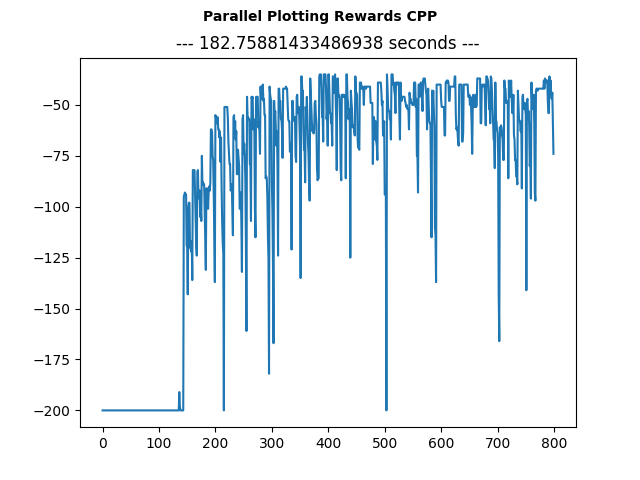
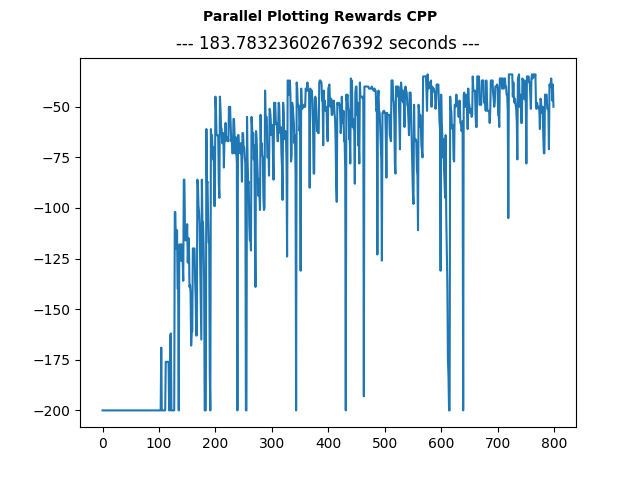
testing and adding in a delay

diff --git a/ME759/ParallelQlearndequeue.py b/ME759/ParallelQlearndequeue.py
@@ -69,6 +69,8 @@ def episode_func(episode_num, tau, plotting_rewards, replay_mem, policy_net, tar
         if terminated or truncated: # if the pole has fallen down 
             next_observation = None
 
+        item = [observation, action, next_observation, reward]
+
         #print(replay_mem)
         # Update the replay memory
         semaphore.acquire()
@@ -117,7 +119,7 @@ def main(plotting_rewards, replay_mem):
 
     global env
     ### Create environment
-    env = gym.make('AcrobotCdyn') # Initialize the Gym environment
+    env = gym.make('Acrobot') # Initialize the Gym environment
 
     # Get the shapes of the state space (observation_space) and action space (action_space)
     state_space_dim = env.observation_space.shape[0]
@@ -147,7 +149,7 @@ def main(plotting_rewards, replay_mem):
 
     # Initialize the Gym environment
 
-    env = gym.make('AcrobotCdyn') 
+    env = gym.make('Acrobot') 
     observation, info = env.reset()
     max_workers=8
     start_time = time.time()
@@ -171,7 +173,6 @@ def main(plotting_rewards, replay_mem):
         # all done
         print('Updating target network main')
         target_net.load_state_dict(policy_net.state_dict()) # This will copy the weights of the policy network to the target network
-        print('Updating Finished')
 
 if __name__ == "__main__":
     with Manager() as manager:
@@ -183,9 +184,9 @@ if __name__ == "__main__":
         fig = plt.figure()
         ax = fig.add_subplot()
 
-        fig.suptitle('Parallel Plotting Rewards CPP', fontsize=10, fontweight='bold')
+        fig.suptitle('Parallel Plotting Rewards', fontsize=10, fontweight='bold')
         ax.set_title("--- %s seconds ---" % (time.time() - start_time))
         ax.plot(plotting_rewards)
-        plt.savefig('ParCPP.png')
+        plt.savefig('ParPyt.png')
 
         print("--- %s seconds ---" % (time.time() - start_time))

diff --git a/ME759/SolverClassesParalell.py b/ME759/SolverClassesParalell.py
@@ -11,7 +11,30 @@ import matplotlib.pyplot as plt
 import matplotlib
 from torch import nn
 from collections import deque
+from multiprocessing.managers import BaseManager
 from IPython import display
+import collections
+
+class DequeManager(BaseManager):
+    pass
+
+class DequeProxy(object):
+    def __init__(self, capacity):
+        self.deque = collections.deque(maxlen=capacity)
+    def __len__(self):
+        return self.deque.__len__()
+    def appendleft(self, x):
+        self.deque.appendleft(x)
+    def append(self, x):
+        self.deque.append(x)
+    def pop(self):
+        return self.deque.pop()
+    def popleft(self):
+        return self.deque.popleft()
+    def sample(self,batch_size):
+        batch_size = min(batch_size, len(self))
+        return random.sample(self.deque,batch_size)
+    
     
 class DQN(nn.Module):
     

diff --git a/ME759/rk4.cpp b/ME759/rk4.cpp
@@ -1,5 +1,6 @@
 #include <stdio.h>
 #include <iostream>
+#include <unistd.h>
 #include <random>
 using namespace std;
 
@@ -46,6 +47,8 @@ void dsdt(double* deriv[], double theta1, double theta2,double dtheta1,double dt
 }
 
 int main(int argc, char *argv[]) {
+
+    usleep(5000);
 
     double *y = new double[5];
     double *y1 = new double[5];
